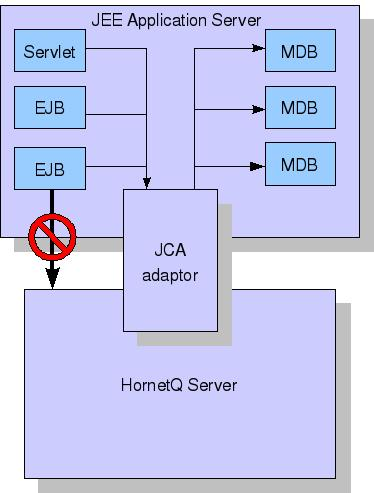
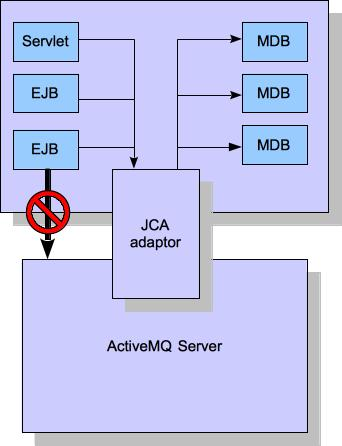
doc changes on architecture including picture changes
I have changed the OpenOffice files. Exported the pictures
As I exported the pictures I selected the group on the slide,
File->Export, JPG file, and selected selection only.

The size was the default size and that worked alright.

diff --git a/docs/user-manual/en/persistence.md b/docs/user-manual/en/persistence.md
@@ -354,31 +354,24 @@ message data, duplicate id caches or paging data will be persisted.
 
 You may want to inspect the existent records on each one of the journals
 used by ActiveMQ, and you can use the export/import tool for that
-purpose. The export/import are classes located at the activemq-core.jar,
+purpose.
 you can export the journal as a text file by using this command:
 
-`java -cp activemq-core.jar org.apache.activemq.core.journal.impl.ExportJournal
-                <JournalDirectory> <JournalPrefix> <FileExtension> <FileSize>
-                <FileOutput>`
+`java -cp activemq-tools-jar-with-dependencies.jar export-journal <JournalDirectory> <JournalPrefix> <FileExtension> <FileSize> <FileOutput>`
 
 To import the file as binary data on the journal (Notice you also
 require netty.jar):
 
-`java -cp activemq-core.jar:netty.jar org.apache.activemq.core.journal.impl.ImportJournal
-                <JournalDirectory> <JournalPrefix> <FileExtension> <FileSize>
-                <FileInput>`
+`java -cp activemq-tools-jar-with-dependencies.jar import-journal <JournalDirectory> <JournalPrefix> <FileExtension> <FileSize> <FileInput>`
 
--   JournalDirectory: Use the configured folder for your selected
-    folder. Example: ./activemq/data/journal
+-   JournalDirectory: Use the configured folder for your selected folder. Example: ./activemq/data/journal
 
--   JournalPrefix: Use the prefix for your selected journal, as
-    discussed above
+-   JournalPrefix: Use the prefix for your selected journal, as discussed above
 
--   FileExtension: Use the extension for your selected journal, as
-    discussed above
+-   FileExtension: Use the extension for your selected journal, as discussed above
 
 -   FileSize: Use the size for your selected journal, as discussed above
 
--   FileOutput: text file that will contain the exported data
+-   FileOutput or FileInput: text file that will contain the exported data
 
-
+See [Tools](tools.md) for more information.

diff --git a/docs/user-manual/en/architecture.md b/docs/user-manual/en/architecture.md
@@ -28,14 +28,21 @@ ActiveMQ clients, potentially on different physical machines interact
 with the ActiveMQ server. ActiveMQ currently provides two APIs for
 messaging at the client side:
 
-1.  Core client API. This is a simple intuitive Java API that allows the
+1. Core client API. This is a simple intuitive Java API that allows the
     full set of messaging functionality without some of the complexities
     of JMS.
 
-2.  JMS client API. The standard JMS API is available at the client
+2. JMS client API. The standard JMS API is available at the client
     side.
 
-JMS semantics are implemented by a thin JMS facade layer on the client
+ActiveMQ also provides different protocol implementations on the server so you can use respective clients for these protocols:
+
+1. Stomp
+2. OpenWire
+3. AMQP
+
+
+JMS semantics are implemented by a JMS facade layer on the client
 side.
 
 The ActiveMQ server does not speak JMS and in fact does not know
@@ -66,7 +73,7 @@ application that requires messaging functionality internally but you
 don't want to expose that as a ActiveMQ server you can directly
 instantiate and embed ActiveMQ servers in your own application.
 
-For more information on embedding ActiveMQ, see [Embedding HornetQ](embedding-hornetq.md).
+For more information on embedding ActiveMQ, see [Embedding ActiveMQ](embedding-activemq.md).
 
 ## ActiveMQ integrated with a JEE application server
 

diff --git a/docs/user-manual/en/messaging-concepts.md b/docs/user-manual/en/messaging-concepts.md
@@ -170,7 +170,7 @@ Let's take a brief look at these:
 ### Java Message Service (JMS)
 
 [JMS](http://en.wikipedia.org/wiki/Java_Message_Service) is part of
-Sun's JEE specification. It's a Java API that encapsulates both message
+Oracle's JEE specification. It's a Java API that encapsulates both message
 queue and publish-subscribe messaging patterns. JMS is a lowest common
 denominator specification - i.e. it was created to encapsulate common
 functionality of the already existing messaging systems that were
